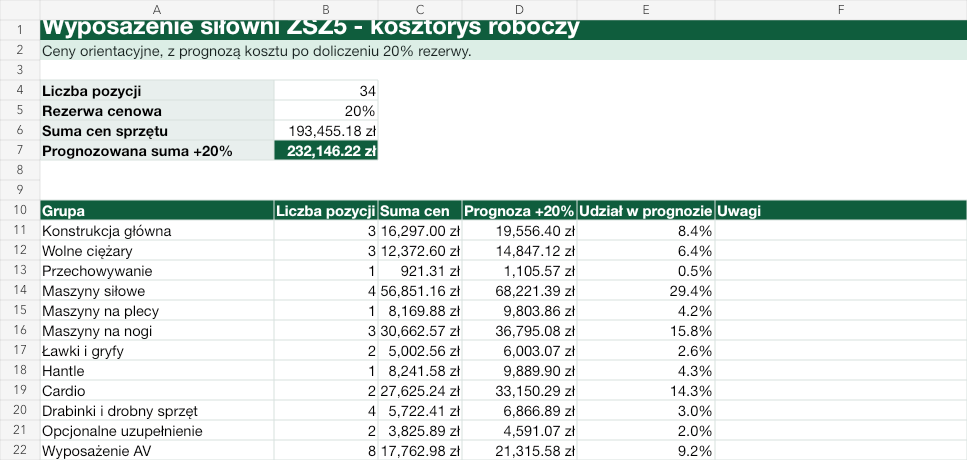
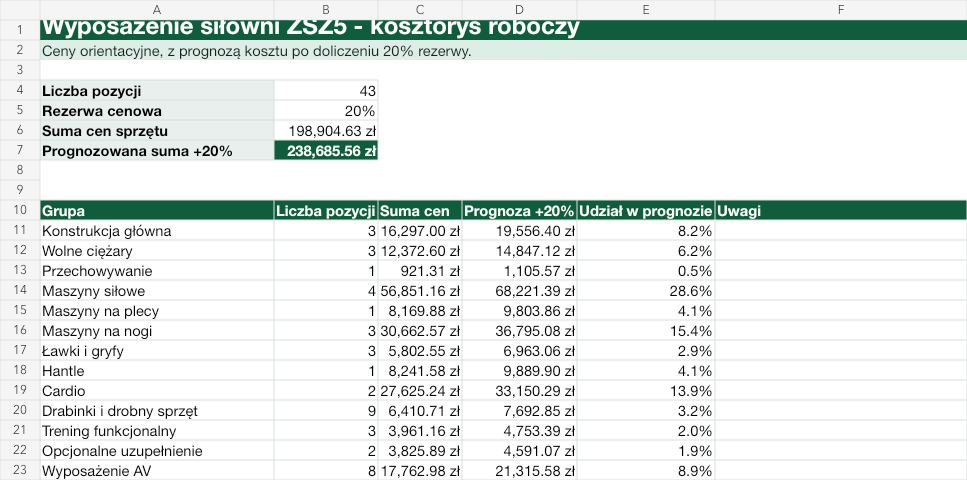
Add functional training gym accessories

diff --git a/script.js b/script.js
@@ -272,6 +272,108 @@ const equipment = [
   {
     category: "silownia",
     section: "Siłownia",
+    group: "Trening funkcjonalny",
+    name: "Worek treningowy Powerbag PROUD, zestaw 5-25 kg",
+    quantity: "1 zestaw",
+    priceRaw: 1689.72,
+    source: "Training Showroom",
+    url: "https://trainingshowroom.com/pilki-i-worki/2609-worek-treningowy-powerbag-proud.html",
+    image: "assets/images/gym-pro/gym-powerbag-set.jpg",
+  },
+  {
+    category: "silownia",
+    section: "Siłownia",
+    group: "Trening funkcjonalny",
+    name: "Stojak na worki treningowe Powerbag PROUD",
+    quantity: "1",
+    priceRaw: 2101.8,
+    source: "Training Showroom",
+    url: "https://trainingshowroom.com/pilki-i-worki/2609-worek-treningowy-powerbag-proud.html",
+    image: "assets/images/gym-pro/gym-powerbag-rack.jpg",
+  },
+  {
+    category: "silownia",
+    section: "Siłownia",
+    group: "Ławki i gryfy",
+    name: "Sztanga specjalistyczna do martwego ciągu Hex Bar PROUD",
+    quantity: "1",
+    priceRaw: 799.99,
+    source: "Training Showroom",
+    url: "https://trainingshowroom.com/sztangi/2593-sztanga-specjalistyczna-do-martwego-ciagu-hex-bar.html",
+    image: "assets/images/gym-pro/gym-hex-bar.jpg",
+  },
+  {
+    category: "silownia",
+    section: "Siłownia",
+    group: "Trening funkcjonalny",
+    name: "Skakanka treningowa Speed Rope 2.0 PROUD",
+    quantity: "4 szt.",
+    priceRaw: 169.64,
+    unitNote: "42,41 zł za szt.",
+    source: "Training Showroom",
+    url: "https://trainingshowroom.com/sprzet-fitness/2544-skakanka-treningowa-proud-speed-rope-20.html",
+    image: "assets/images/gym-pro/gym-speed-rope.jpg",
+  },
+  {
+    category: "silownia",
+    section: "Siłownia",
+    group: "Drabinki i drobny sprzęt",
+    name: "Pas kulturystyczny z łańcuchem PROUD",
+    quantity: "1",
+    priceRaw: 105.03,
+    source: "Training Showroom",
+    url: "https://trainingshowroom.com/akcesoria/2545-pas-kulturystyczny-z-lancuchem-proud.html",
+    image: "assets/images/gym-pro/gym-dip-belt.jpg",
+  },
+  {
+    category: "silownia",
+    section: "Siłownia",
+    group: "Drabinki i drobny sprzęt",
+    name: "Uchwyt obrotowy Land Mine PROUD EDGE",
+    quantity: "1",
+    priceRaw: 299,
+    source: "Training Showroom",
+    url: "https://trainingshowroom.com/proud-edge/3552-uchwyt-obrotowy-land-mine-proud-edge.html",
+    image: "assets/images/gym-pro/gym-landmine.jpg",
+  },
+  {
+    category: "silownia",
+    section: "Siłownia",
+    group: "Drabinki i drobny sprzęt",
+    name: "Karabińczyk do wyciągu, zestaw PROUD",
+    quantity: "1 zestaw",
+    priceRaw: 43.92,
+    unitNote: "5 szt. w zestawie",
+    source: "Training Showroom",
+    url: "https://trainingshowroom.com/maszyny-silowe/3398-karabinczyk-do-wyciagu-zestaw-proud.html?search_query=Karabinczyk",
+    image: "assets/images/gym-pro/gym-carabiner-set.png",
+  },
+  {
+    category: "silownia",
+    section: "Siłownia",
+    group: "Drabinki i drobny sprzęt",
+    name: "Uchwyt do wyciągu linowy PROUD",
+    quantity: "1",
+    priceRaw: 74.73,
+    source: "Training Showroom",
+    url: "https://trainingshowroom.com/maszyny-silowe/2624-uchwyt-do-wyciagu-linowy-proud.html",
+    image: "assets/images/gym-pro/gym-cable-rope-handle.jpg",
+  },
+  {
+    category: "silownia",
+    section: "Siłownia",
+    group: "Drabinki i drobny sprzęt",
+    name: "Pojedynczy uchwyt do wyciągu obrotowy ogumowany PROUD",
+    quantity: "2 szt.",
+    priceRaw: 165.62,
+    unitNote: "82,81 zł za szt.",
+    source: "Training Showroom",
+    url: "https://trainingshowroom.com/maszyny-silowe/2587-pojedynczy-uchwyt-do-wyciagu-obrotowy-ogumowany-proud.html",
+    image: "assets/images/gym-pro/gym-single-cable-handle.jpg",
+  },
+  {
+    category: "silownia",
+    section: "Siłownia",
     group: "Opcjonalne uzupełnienie",
     name: "Kettlebell żeliwny PRO, zestaw PROUD",
     quantity: "1 zestaw",

diff --git a/index.html b/index.html
@@ -45,7 +45,7 @@
       <section class="summary" aria-label="Podsumowanie założeń">
         <article>
           <span>Wyposażenie siłowni</span>
-          <strong>34 pozycje</strong>
+          <strong>43 pozycje</strong>
         </article>
         <article>
           <span>Sala korekcyjna</span>
@@ -53,11 +53,11 @@
         </article>
         <article>
           <span>Razem ceny</span>
-          <strong>246 018,16 zł</strong>
+          <strong>251 467,61 zł</strong>
         </article>
         <article>
           <span>Razem prognoza +20%</span>
-          <strong>295 221,79 zł</strong>
+          <strong>301 761,13 zł</strong>
         </article>
       </section>
 

diff --git a/silownia.html b/silownia.html
@@ -49,15 +49,15 @@
         </article>
         <article>
           <span>Pozycji sprzętu</span>
-          <strong>34</strong>
+          <strong>43</strong>
         </article>
         <article>
           <span>Suma cen</span>
-          <strong>193 455,18 zł</strong>
+          <strong>198 904,63 zł</strong>
         </article>
         <article>
           <span>Prognoza +20%</span>
-          <strong>232 146,22 zł</strong>
+          <strong>238 685,56 zł</strong>
         </article>
       </section>
 

diff --git a/assets/images/equipment/SOURCES.md b/assets/images/equipment/SOURCES.md
@@ -55,6 +55,14 @@ Zdjęcia w katalogu `assets/images/gym-pro/` pochodzą z kart produktów Trainin
 - Maszyna do treningu łydek PROUD Champion, https://trainingshowroom.com/maszyny-silowe/2938-maszyna-do-lydek-proud-champion.html
 - Kettlebell żeliwny PRO, zestaw PROUD, https://trainingshowroom.com/hantle-i-kettlebells/3465-hantla-proud-kettlebell-zestaw.html
 - Podłoga gumowa Standard PROUD, https://trainingshowroom.com/podlogi/3427-podloga-gumowa-standard-proud.html
+- Worek treningowy Powerbag PROUD i stojak, https://trainingshowroom.com/pilki-i-worki/2609-worek-treningowy-powerbag-proud.html
+- Sztanga specjalistyczna do martwego ciągu Hex Bar PROUD, https://trainingshowroom.com/sztangi/2593-sztanga-specjalistyczna-do-martwego-ciagu-hex-bar.html
+- Skakanka treningowa Speed Rope 2.0 PROUD, https://trainingshowroom.com/sprzet-fitness/2544-skakanka-treningowa-proud-speed-rope-20.html
+- Pas kulturystyczny z łańcuchem PROUD, https://trainingshowroom.com/akcesoria/2545-pas-kulturystyczny-z-lancuchem-proud.html
+- Uchwyt obrotowy Land Mine PROUD EDGE, https://trainingshowroom.com/proud-edge/3552-uchwyt-obrotowy-land-mine-proud-edge.html
+- Karabińczyk do wyciągu, zestaw PROUD, https://trainingshowroom.com/maszyny-silowe/3398-karabinczyk-do-wyciagu-zestaw-proud.html?search_query=Karabinczyk
+- Uchwyt do wyciągu linowy PROUD, https://trainingshowroom.com/maszyny-silowe/2624-uchwyt-do-wyciagu-linowy-proud.html
+- Pojedynczy uchwyt do wyciągu obrotowy ogumowany PROUD, https://trainingshowroom.com/maszyny-silowe/2587-pojedynczy-uchwyt-do-wyciagu-obrotowy-ogumowany-proud.html
 
 ## Wyposażenie AV
 
